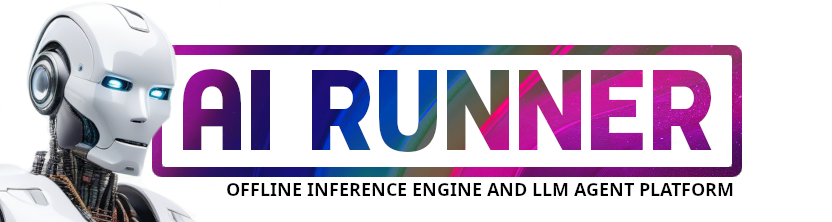
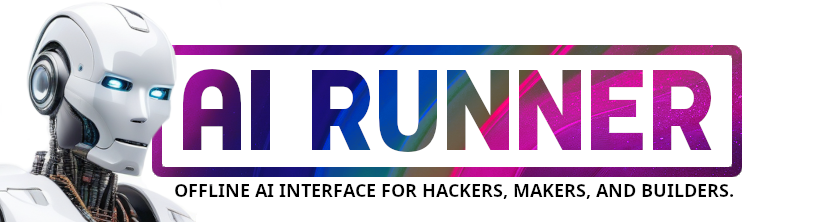
Updated README

Changed region(s): [[0.1875, 0.8108, 0.9062, 0.8919]]

diff --git a/README.md b/README.md
@@ -7,7 +7,7 @@
 
 ---
 
-# AI Runner: Offline AI interface for Hackers, Makers, and Builders.
+# Offline AI interface for Hackers, Makers, and Builders.
 
 ![image](https://github.com/user-attachments/assets/392375c8-a7f6-4e6e-8662-511cffc608aa)
 
